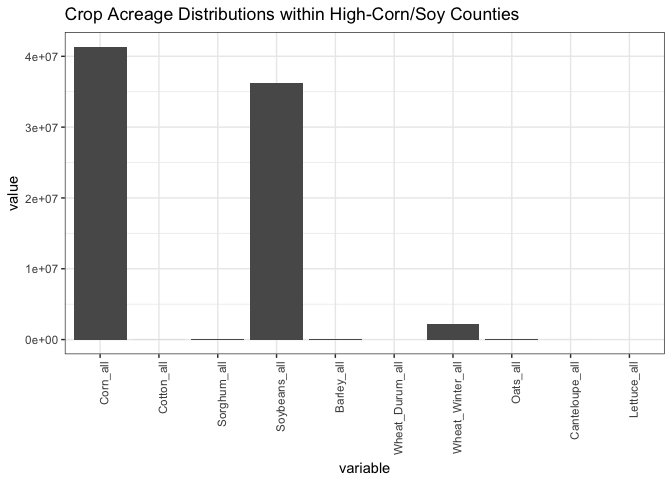
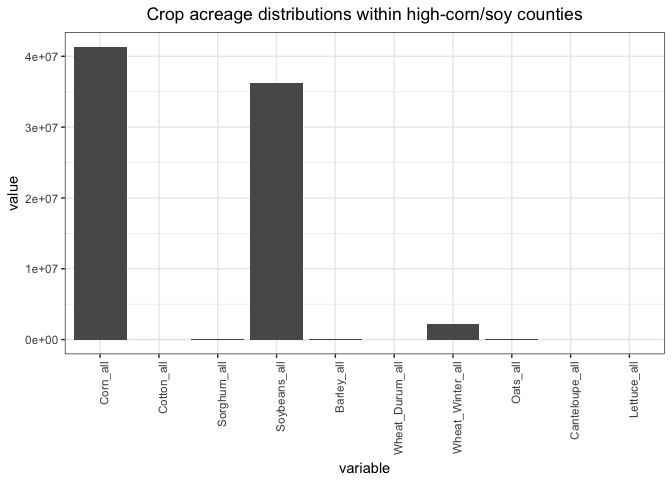
prettify

Changed region(s): [[0.0938, 0.0, 0.875, 0.0625]]

diff --git a/README.md b/README.md
@@ -6,26 +6,32 @@ Kenneth Qin
 Background
 ----------
 
-The main barrier to successfully deploying a targeted fertilizer conservation program for commodity crops is the lack of sufficiently high-coverage, high-resolution fertilizer application data. In theory, if we could receive annual reports of yield, crop type, and nitrogen (N) fertilizer application rate from each field in the U.S., we could develop a crude N-balance prediction system that operates at the field-scale. However, this data is elusive in part because of the prevalent concern for farmers' privacy rights. A 2013 [study](http://www.tandfonline.com/doi/abs/10.1080/08941920.2012.671450) from Iowa State University reported that "30% of farmers agreed that government use of remote sensing and other tools to identify issues on private land is an invasion of privacy" (Arbuckle).
+The main barrier to successfully deploying a targeted fertilizer conservation program for commodity crops is the lack of sufficiently high-coverage, high-resolution fertilizer application data. In theory, if we could receive annual reports of yield, crop type, and nitrogen (N) fertilizer application rate from each field in the U.S., we could develop a monitoring and accountability system that tracks a field-level N fertilizer metric, such as [nitrogen use efficiency (NUE) or nitrogen-balance (N-balance)](http://www.ini2016.com/pdf-papers/INI2016_Brentrup_Frank.pdf).
 
-Thus in this pilot project, **we do not attempt to calculate any field-scale attributes**. Instead, we attempt to predict the mean and heterogeneity of **N-balance for corn fields at the county scale**. In theory, once corn N-balance has been calculated for each county, we will have created a dataset that can be used to validate independent predictions of **county-level** N-balance. Such a model would allow for semi-targeted conservation programs that enroll counties instead of individual farmers.
+However, field-level data is elusive in part because of the prevalent concern for farmers' privacy rights. A 2013 [study](http://www.tandfonline.com/doi/abs/10.1080/08941920.2012.671450) from Iowa State University reported that "30% of farmers agreed that government use of remote sensing and other tools to identify issues on private land is an invasion of privacy" (Arbuckle).
 
-Data Sources
-------------
+Thus in this pilot project, **we do not attempt to calculate any field-scale attributes**. Instead, we attempt to predict the mean and heterogeneity of **N-balance for corn fields at the county scale**. Once corn N-balance has been calculated for each county, we will have created a dataset that can be used to validate independent predictions of **county-level** N-balance. Such a model would allow for semi-targeted conservation programs that enroll counties instead of individual farmers.
 
-County-scale estimates of total N fertilizer usage was made available in the EPA's National Emissions Inventory (NEI) reports for 2014; these estimates were based on modeled crop demand (see their [Technical Support Document](https://www.epa.gov/air-emissions-inventories/2014-national-emissions-inventory-nei-technical-support-document-tsd)). When combined with the [Cropland Data Layer's](https://nassgeodata.gmu.edu/CropScape/) pixel counts of each land cover type for each county, we can identify those counties where the vast majority (e.g. &gt; 0.95) of all cultivated area consists of corn/soybean, and make the assumption that all N fertilizer within the county was applied to corn acreage. Through this process we can arrive at a **county-average fertilizer application rate for corn** for a subset of counties.
+Data Sources and N-Balance Equation
+-----------------------------------
 
-County-level production (and yield) data can be retrieved from the USDA National Agricultural Statistics Service (NASS) via [Quick Stats](https://quickstats.nass.usda.gov/).
+County-scale estimates of total N fertilizer usage was made available in the [**EPA's 2014 National Emissions Inventory**](https://www.epa.gov/air-emissions-inventories/2014-national-emissions-inventory-nei-technical-support-document-tsd); these estimates were based on modeled crop demand.
 
-**County-level N-balance for corn** can then be calculated through the following equation:
+When combined with the [**Cropland Data Layer's**](https://nassgeodata.gmu.edu/CropScape/) pixel counts of each land cover type for each county, we can identify those counties where the vast majority (e.g. &gt; 0.95) of all cultivated area consists of corn/soybean, and make the assumption that all N fertilizer within the county was applied to corn acreage. Through this process we can arrive at a county-average fertilizer application rate for corn for a subset of counties.
 
-*N*.*b**a**l**a**n**c**e* = *N*.*i**n**p**u**t* − *N*.*o**u**t**p**u**t* = *N*.*i**n**p**u**t* − *C**r**o**p*.*P**r**o**d**u**c**t**i**o**n* \* *N*.*r**e**m**o**v**a**l*.*r**a**t**e*
+County-level production (and yield) data can be retrieved from the USDA [**National Agricultural Statistics Service (NASS)**](https://quickstats.nass.usda.gov/).
+
+County-level N-balance for corn can then be calculated through the following equation:
+
+*N.balance = N.input - N.output = N.input - Crop.Production \* N.removal.rate*
 
 This simplified N-balance equation is sufficient for our purpose of estimating county-level corn N-balance, though we recognize that we are making the following assumptions:
 
 -   Corn stover / stubble is not removed from the field.
 -   The grain has the standard moisture content of 15.5%.
 -   The grain has a constant N concentration of 1.4%.
+-   The N removal rate of corn does not vary with total N input.
+-   EPA, NASS, and CDL data are reliable.
 
 See the International Plant Nutrition Institute's (IPNI's) [website](http://www.ipni.net/article/IPNI-3296) for details on the grain N calculation.
 
@@ -190,26 +196,29 @@ CDL2014.ac.select[ind.hicornsoy.cornsoy,] %>%
   temp
 ggplot(melt(temp), aes(x=variable, y=value)) + geom_bar(stat='identity') +
   theme(axis.text.x = element_text(angle=90, hjust=1)) + 
-  ggtitle("Crop Acreage Distributions within High-Corn/Soy Counties")
+  ggtitle("Crop acreage distributions within high-corn/soy counties") +
+  theme(plot.title = element_text(hjust = 0.5))
 ```
 
     ## No id variables; using all as measure variables
 
 ![](README_files/figure-markdown_github-ascii_identifiers/unnamed-chunk-8-1.png)
 
-Aside from corn and soybean, these counties also grow a substantial amount of winter wheat. Winter wheat demands almost twice as much N as corn, which may bias the corn N-balance downwards if total N applications are multiplied by the proportion of corn/soybean acreage within each county. However, these crops only make up to 0.05 of total acreage in these counties.
+Aside from corn and soybean, these counties also grow a substantial amount of winter wheat. Winter wheat demands almost twice as much N per acre as corn, which may bias the corn N-balance estimates downward.
+
+Of course, these non-corn/soy crops only make up to 0.05 of total acreage in these counties.
 
 ### Part 2: Compare Datasets Against NASS 2014 Corn Data
 
-#### Calibration Checkpoint 1: How well does CDL acreage data compare to NASS acreage data?
+#### Calibration Checkpoint A: How well does CDL acreage data compare to NASS acreage data?
 
-First create standard FIPS code within Corn data.
+First create standard FIPS code within NASS corn data.
 
 ``` r
 Corn2014$Fips <- Corn2014$State.ANSI*1000 + Corn2014$County.ANSI
 ```
 
-Reshape Corn data and calculate total corn production (in bushels) for each county.
+Reshape NASS corn data and calculate total corn production (in bushels) for each county.
 
 ``` r
 Corn2014.w <- dcast(Corn2014, Fips + State + County ~ Data.Item, value.var="Value", fun.aggregate = sum)
@@ -227,23 +236,24 @@ CDL.NASS.cornsoy <- filter(CDL.NASS.m, Fips %in% cornsoy.counties.fips)
 ggplot(CDL.NASS.cornsoy, aes(x=Acres.NASS, y=Corn_all)) + 
   geom_point(alpha=0.5) + 
   geom_abline(intercept=0, slope=1) + ylab("Acres.CDL") +
-  ggtitle("CDL vs. NASS estimates of county corn acreage in 2014")
+  ggtitle("CDL vs. NASS estimates of county corn acreage in 2014") +
+  theme(plot.title = element_text(hjust = 0.5))
 ```
 
 ![](README_files/figure-markdown_github-ascii_identifiers/unnamed-chunk-11-1.png)
 
 Looks like a good fit!
 
-#### Calibration Checkpoint 2: How well do NEI county-level fertilizer estimates compare to those of state-level NASS fertilizer estimates?
+#### Calibration Checkpoint B: How well do EPA county-level fertilizer estimates compare to those of state-level NASS fertilizer estimates?
 
-Specifically, we will look at corn fertilizer rates. This means that in the EPA NEI-derived fertilizer application estimates, we will only use counties where over 0.95 of acreage consists of corn/soybean.
+Specifically, we will look at corn fertilizer rates. This means that in the EPA EPA-derived fertilizer application estimates, we will only use counties where over 0.95 of acreage consists of corn/soybean.
 
 Some complications that we may want to consider:
 
 -   The NASS data only represents fertilizer applied to corn, so in order to make a fair comparison with EPA estimates, the EPA estimates must be filtered for high-corn/soy counties only.
 -   It appears that NASS state-level fertilizer estimates do **not** include organic N (e.g. manure), whereas EPA county-level fertilizer estimates do. UPDATE: This makes very little difference in overall pattern of calibration curve.
 
-First use EPA NEI's county-level fertilizer estimates to calculate state-level N application rates for corn.
+First use EPA's county-level fertilizer estimates to calculate state-level N application rates for corn.
 
 ``` r
 names(Corn.Fertilizer.State.2014.NASS)[11] <- "N.lbs.per.ac.NASS"
@@ -277,7 +287,8 @@ Corn.Fertilizer.County.2014.EPA %>%
 
 ggplot(Corn.Fertilizer.State.2014.EPA, aes(x=Corn.Acres, y=Corn.N.Fertilizer, label=State)) +
   geom_point() + stat_smooth(method="lm") + geom_text(vjust=1.5, col="grey30") +
-  ggtitle("EPA-Derived State-Level Corn Fertilizer Rates")
+  ggtitle("EPA-derived state-average corn fertilizer rates") +
+  theme(plot.title = element_text(hjust = 0.5))
 ```
 
 ![](README_files/figure-markdown_github-ascii_identifiers/unnamed-chunk-12-1.png)
@@ -287,12 +298,13 @@ What about individual counties?
 ``` r
 ggplot(Corn.Fertilizer.County.2014.EPA, aes(x=Corn.Acres, y=Corn.N.Fertilizer, col=State)) +
   geom_point(alpha=0.3) + 
-  ggtitle("EPA-Derived County-Level Corn Fertilizer Rates\nin High-Corn/Soy Counties")
+  ggtitle("EPA-derived county-average corn fertilizer rates\nin high-corn/soy counties") +
+  theme(plot.title = element_text(hjust = 0.5))
 ```
 
 ![](README_files/figure-markdown_github-ascii_identifiers/unnamed-chunk-13-1.png)
 
-Now compare corn N application rates between EPA NEI-derived stats and NASS stats.
+Now compare corn N application rates between EPA-derived stats and NASS stats.
 
 ``` r
 # Merge EPA data with NASS data
@@ -301,7 +313,8 @@ Corn.Fertilizer.State.2014.m <- merge(Corn.Fertilizer.State.2014.NASS, Corn.Fert
 ggplot(Corn.Fertilizer.State.2014.m, aes(x=N.lbs.per.ac.NASS, y=N.lbs.per.ac.EPA, label=State)) +
   geom_point(aes(size=Corn.Acres)) + geom_abline(intercept=0, slope=1) +
   geom_text(vjust=1.5) + 
-  ggtitle("EPA estimated N rate for high-corn/soy counties\nvs. NASS corn N rate, state aggregation") +
+  ggtitle("EPA-derived average N rate for high-corn/soy counties\nvs. NASS corn N rate, state-level aggregation") +
+  theme(plot.title = element_text(hjust = 0.5)) +
   coord_cartesian(xlim=c(0,200),ylim=c(0,600))
 ```
 
@@ -346,21 +359,20 @@ Corn.Fertilizer.State.2014.trim.m <- merge(Corn.Fertilizer.State.2014.NASS, Corn
 ggplot(Corn.Fertilizer.State.2014.trim.m, aes(x=N.lbs.per.ac.NASS, y=N.lbs.per.ac.EPA, label=State)) +
   geom_point(aes(size=Corn.Acres)) + geom_abline(intercept=0, slope=1) +
   geom_text(vjust=1.5) + 
-  ggtitle("EPA estimated N rate for high-corn/soy counties\nvs. NASS corn N rate, state aggregation,\nafter removing low-acreage counties") +
+  ggtitle("EPA-derived average N rate for high-corn/soy counties\nvs. NASS corn N rate, state-level aggregation,\nafter removing low-acreage counties") +
+  theme(plot.title = element_text(hjust = 0.5)) +
   coord_cartesian(xlim=c(0,200),ylim=c(0,600))
 ```
 
 ![](README_files/figure-markdown_github-ascii_identifiers/unnamed-chunk-16-1.png)
 
-Trimming low-acreage counties helped to lower the EPA estimates to be closer to the NASS estimates, but the EPA estimates are still substantially higher.
+Trimming low-acreage counties helped to reduce the discrepancy by lowering the EPA estimates, but the EPA estimates are still substantially higher than the NASS estimates.
 
 Although the EPA estimates still differ from the NASS estimates, in the absence of county-level NASS estimates, we will use EPA estimates to derive county-level corn N-balance estimates.
 
-### Part 3: Calculate N-balance for this subset of counties
+### Part 3: Calculate and map N-balance for this subset of counties
 
 Assuming IPNI nutrient removal rate of **0.67 lbs. N / bu**, calculate county-scale N-balance (lbs. N / ac).
-
-**NOTE: THIS ASSUMES CONSTANT CORN N REMOVAL RATE. EILEEN ONCE RECOMMENDED AN N REMOVAL RATE THAT VARIED LINEARLY WITH N INPUT.**
 
 ``` r
 Nbalance.cornsoy <- merge(Corn.Fertilizer.County.2014.EPA.trim, Corn2014.w, by.x="FIPS", by.y="Fips")
@@ -372,7 +384,8 @@ Nbalance.cornsoy %>%
 
 ggplot(Nbalance.cornsoy, aes(x=Nbal)) + geom_histogram() +
   xlab("County Avg. N-Balance (lbs. N / ac)") +
-  ggtitle("Histogram of Average Corn N-Balance for High-Corn/Soy Counties")
+  ggtitle("Histogram of average corn N-balance for high-corn/soy counties") +
+  theme(plot.title = element_text(hjust = 0.5))
 ```
 
     ## `stat_bin()` using `bins = 30`. Pick better value with `binwidth`.
@@ -432,7 +445,8 @@ m1 <- map.plot + geom_path(data=Nbalance.cornsoy.geo, aes(x=long, y=lat, group=g
 
 m2 <- m1 + geom_polygon(data=Nbalance.cornsoy.geo, aes(x=long, y=lat, group=group, fill=N_Balance)) + 
   scale_fill_continuous("N Balance (lbs.N/ac)") +
-  ggtitle("Average County-Level Corn N-Balance, 2014")
+  ggtitle("County-average corn N-balance, 2014\nbased on EPA National Emissions Inventory and NASS") +
+  theme(plot.title = element_text(hjust = 0.5))
 
 m2
 ```
